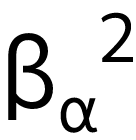
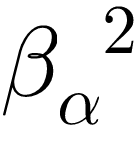
Comment out unused and switch font

Changed region(s): [[0.0, 0.1714, 0.4412, 0.8571], [0.7353, 0.0286, 1.0, 0.4571], [0.4118, 0.6286, 0.7353, 0.9714]]

diff --git a/src/text_rendering.rs b/src/text_rendering.rs
@@ -8,8 +8,7 @@
 //! if you need emoji rendering.
 
 use parley::{
-    FontContext, GenericFamily, GlyphRun, Layout, LayoutContext, PositionedLayoutItem,
-    StyleProperty,
+    FontContext, FontFamily, GlyphRun, Layout, LayoutContext, PositionedLayoutItem, StyleProperty,
 };
 use skrifa::{
     GlyphId, MetadataProvider, OutlineGlyph,
@@ -17,7 +16,7 @@ use skrifa::{
     outline::{DrawSettings, OutlinePen},
     raw::FontRef as ReadFontsRef,
 };
-use tiny_skia::{Color, FillRule, Paint, PathBuilder, Pixmap, PixmapMut, Rect, Transform};
+use tiny_skia::{Color, FillRule, Paint, PathBuilder, Pixmap, PixmapMut, Transform};
 
 #[derive(Clone, Copy, Debug, PartialEq)]
 struct ColorBrush {
@@ -58,7 +57,12 @@ pub fn render_text(text: String, font_size: f32) -> Pixmap {
     builder.push_default(brush_style);
 
     // Set default font family
-    builder.push_default(GenericFamily::SystemUi);
+    // builder.push_default(StyleProperty::FontStyle(parley::FontStyle::Italic));
+    // builder.push_default(GenericFamily::Math);
+    // builder.push_default(FontFamily::parse("TeX Gyre Pagella Math").unwrap());
+    // builder.push_default(FontFamily::parse("Libertinus Math").unwrap());
+    // builder.push_default(FontFamily::parse("Tex Gyre Termes Math").unwrap());
+    builder.push_default(FontFamily::parse("TexMaths Symbols").unwrap());
     builder.push_default(StyleProperty::FontSize(font_size));
 
     // Build the builder into a Layout
@@ -85,11 +89,12 @@ pub fn render_text(text: String, font_size: f32) -> Pixmap {
                 PositionedLayoutItem::GlyphRun(glyph_run) => {
                     render_glyph_run(&glyph_run, &mut pen, 0);
                 }
-                PositionedLayoutItem::InlineBox(inline_box) => {
-                    pen.set_origin(inline_box.x, inline_box.y);
-                    pen.set_color(foreground_color);
-                    pen.fill_rect(inline_box.width, inline_box.height);
-                }
+                // PositionedLayoutItem::InlineBox(inline_box) => {
+                //     pen.set_origin(inline_box.x, inline_box.y);
+                //     pen.set_color(foreground_color);
+                //     pen.fill_rect(inline_box.width, inline_box.height);
+                // }
+                _ => {}
             }
         }
     }
@@ -136,36 +141,36 @@ fn render_glyph_run(glyph_run: &GlyphRun<'_, ColorBrush>, pen: &mut TinySkiaPen<
     }
 
     // Draw decorations: underline & strikethrough
-    let style = glyph_run.style();
-    let run_metrics = run.metrics();
-    if let Some(decoration) = &style.underline {
-        let offset = decoration.offset.unwrap_or(run_metrics.underline_offset);
-        let size = decoration.size.unwrap_or(run_metrics.underline_size);
-        render_decoration(pen, glyph_run, decoration.brush, offset, size, padding);
-    }
-    if let Some(decoration) = &style.strikethrough {
-        let offset = decoration
-            .offset
-            .unwrap_or(run_metrics.strikethrough_offset);
-        let size = decoration.size.unwrap_or(run_metrics.strikethrough_size);
-        render_decoration(pen, glyph_run, decoration.brush, offset, size, padding);
-    }
+    // let style = glyph_run.style();
+    // let run_metrics = run.metrics();
+    // if let Some(decoration) = &style.underline {
+    //     let offset = decoration.offset.unwrap_or(run_metrics.underline_offset);
+    //     let size = decoration.size.unwrap_or(run_metrics.underline_size);
+    //     render_decoration(pen, glyph_run, decoration.brush, offset, size, padding);
+    // }
+    // if let Some(decoration) = &style.strikethrough {
+    //     let offset = decoration
+    //         .offset
+    //         .unwrap_or(run_metrics.strikethrough_offset);
+    //     let size = decoration.size.unwrap_or(run_metrics.strikethrough_size);
+    //     render_decoration(pen, glyph_run, decoration.brush, offset, size, padding);
+    // }
 }
 
-fn render_decoration(
-    pen: &mut TinySkiaPen<'_>,
-    glyph_run: &GlyphRun<'_, ColorBrush>,
-    brush: ColorBrush,
-    offset: f32,
-    width: f32,
-    padding: u32,
-) {
-    let y = glyph_run.baseline() - offset + padding as f32;
-    let x = glyph_run.offset() + padding as f32;
-    pen.set_color(brush.color);
-    pen.set_origin(x, y);
-    pen.fill_rect(glyph_run.advance(), width);
-}
+// fn render_decoration(
+//     pen: &mut TinySkiaPen<'_>,
+//     glyph_run: &GlyphRun<'_, ColorBrush>,
+//     brush: ColorBrush,
+//     offset: f32,
+//     width: f32,
+//     padding: u32,
+// ) {
+//     let y = glyph_run.baseline() - offset + padding as f32;
+//     let x = glyph_run.offset() + padding as f32;
+//     pen.set_color(brush.color);
+//     pen.set_origin(x, y);
+//     pen.fill_rect(glyph_run.advance(), width);
+// }
 
 struct TinySkiaPen<'a> {
     pub(crate) pixmap: PixmapMut<'a>,
@@ -195,11 +200,11 @@ impl TinySkiaPen<'_> {
         self.paint.set_color(color);
     }
 
-    pub(crate) fn fill_rect(&mut self, width: f32, height: f32) {
-        let rect = Rect::from_xywh(self.x, self.y, width, height).unwrap();
-        self.pixmap
-            .fill_rect(rect, &self.paint, Transform::identity(), None);
-    }
+    // pub(crate) fn fill_rect(&mut self, width: f32, height: f32) {
+    //     let rect = Rect::from_xywh(self.x, self.y, width, height).unwrap();
+    //     self.pixmap
+    //         .fill_rect(rect, &self.paint, Transform::identity(), None);
+    // }
 
     pub(crate) fn draw_glyph(
         &mut self,

diff --git a/src/render.rs b/src/render.rs
@@ -5,9 +5,7 @@ use std::cmp::Ordering;
 use crate::mml_types::Element;
 use crate::mml_types::{Mfrac, Mi, Mn, Mo, Msub, Msup};
 use crate::text_rendering::render_text;
-use tiny_skia::{
-    ALPHA_TRANSPARENT, IntRect, Paint, Pixmap, PixmapPaint, PixmapRef, Rect, Transform,
-};
+use tiny_skia::{IntRect, Paint, Pixmap, PixmapPaint, Transform};
 
 pub trait Render {
     fn render(&self, font_size: f32, baseline: u64) -> Pixmap;
